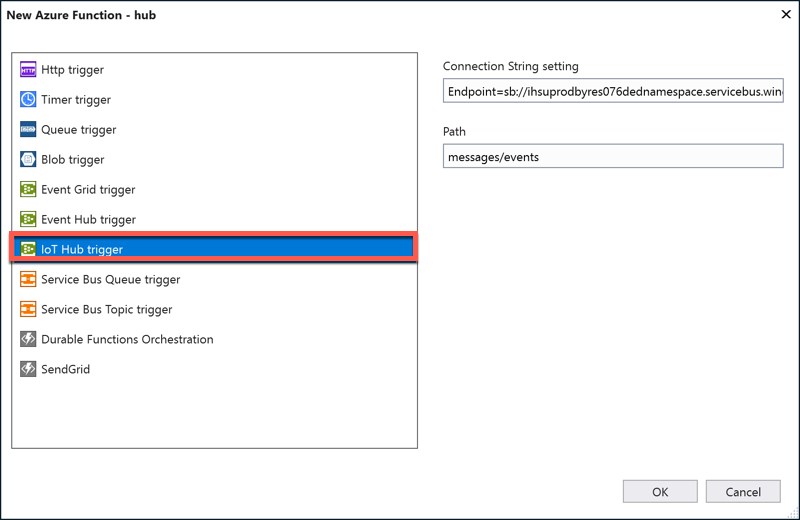
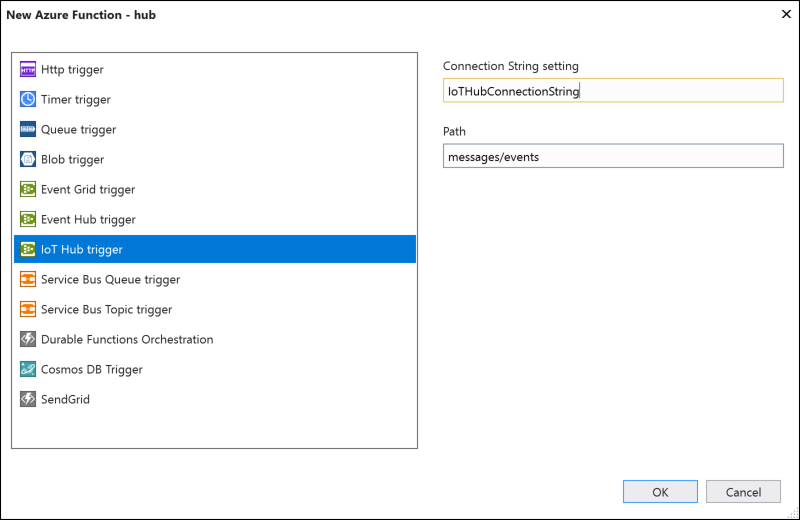
update

diff --git a/_posts/2018-05-21-azure-tips-and-tricks125.md b/_posts/2018-05-21-azure-tips-and-tricks125.md
@@ -18,6 +18,10 @@ Most folks aren't aware of how powerful the [Azure](http://www.azure.com) platfo
 
 [Available Now!](https://michaelcrump.net/azure-tips-and-tricks-complete-list/){: .btn .btn--success} 
 
+## Special Thanks
+
+Special Thanks to [Stefan Wick](http://twitter.com/StefanWickDev) on the Azure IoT Team for his review and edits on this post. 
+
 ## The Series so Far
 
 At Build 2018, we first saw the [IoT Button](http://aka.ms/button). I started [exploring the device](https://www.youtube.com/watch?v=OdGHWwRBf_c) with the very first unboxing and decided to create a mini-series to walk you how to use the device from start to finish. The series (so far) is located below
@@ -62,11 +66,11 @@ Once your project settles down, go into your `local.settings.json` and add the f
 }
 ```
 
-Go into the IoT Hub that you created, select Endpoints, click on the events endpoint and copy the **Event Hub-compatible endpoint** and also the **Event Hub-compatible name** to notepad somewhere. 
+Go into the IoT Hub that you created, select Built-in endpoints, and copy the **Event Hub-compatible endpoint** to notepad somewhere. 
 
 <img style="border:3px solid #021a40" src="/files/iotbutton28.png">
 
-Now append the endpoint with the name. For example mine is `Endpoint=sb://xxxservicebus.windows.net/;SharedAccessKeyName=xxx=;EntityPath=myioteventhubcompatiblename`. Now copy that into the **IoTHubConnectionString** field in our  `local.settings.json`.
+For example mine is `Endpoint=sb://xxxservicebus.windows.net/;SharedAccessKeyName=xxx=;EntityPath=myioteventhubcompatiblename`. Now copy that into the **IoTHubConnectionString** field in our  `local.settings.json`.
 
 If you run the application now, you'll see our function can accept messages. So go ahead and press your IoT Button and you should see something return. 
 
